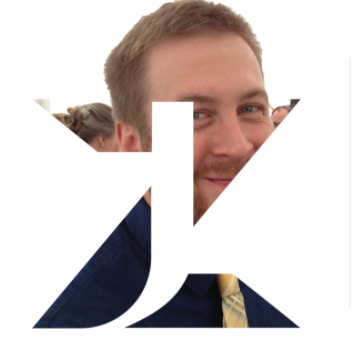
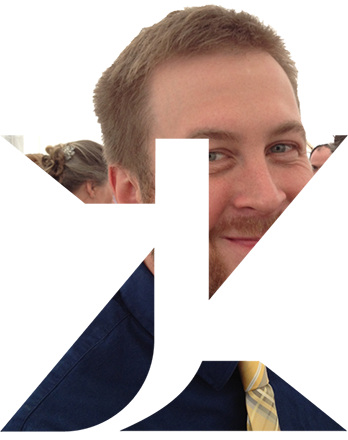
Updates to the about section.

diff --git a/index.html b/index.html
@@ -62,16 +62,16 @@
 	<!-- About Me -->
 	<div class="about">
 		<div class="container-fluid">	
-			<div class="container-fluid">
-				<div class="col-sm-6">
-					<img class="pull-right" src="img/face.png" />
-				</div>
-				<div class="col-sm-6">
-					<h2>About Me</h2>
-					<h3>JOHN ZEREN</h3>
-					<hr/>
-					<p>Lorem ipsum dolor sit amet, consectetur adipiscing elit. Proin cursus eu dolor ac tempor. Etiam pharetra mauris vel tristique vehicula. Fusce eleifend odio eget nisi dapibus consectetur. Proin eu convallis nunc, sit amet semper risus. Pellentesque at facilisis purus. Etiam et lorem placerat, consequat ligula in, euismod mauris. Ut in elit eu elit finibus finibus id eget ipsum. Donec a est diam. Fusce facilisis nisi id nunc convallis, sed convallis lorem congue. Nulla facilisi. Vestibulum neque quam, mattis ac ligula vel, consectetur consectetur metus. Morbi aliquam orci sit amet velit suscipit tincidunt. Etiam condimentum efficitur mi, et elementum augue placerat non. Lorem ipsum dolor sit amet, consectetur adipiscing elit.</p>
-				</div>
+			<div class="col-sm-6 about-image">
+					<img src="img/face.png" />
+			</div>
+			<div class="col-sm-6 about-text">
+				
+				<h2>About Me</h2>
+				<h3>JOHN ZEREN</h3>
+				<hr/>
+				<p>Lorem ipsum dolor sit amet, consectetur adipiscing elit. Proin cursus eu dolor ac tempor. Etiam pharetra mauris vel tristique vehicula. Fusce eleifend odio eget nisi dapibus consectetur. Proin eu convallis nunc, sit amet semper risus. Pellentesque at facilisis purus. Etiam et lorem placerat, consequat ligula in, euismod mauris. Ut in elit eu elit finibus finibus id eget ipsum. Donec a est diam. Fusce facilisis nisi id nunc convallis, sed convallis lorem congue. Nulla facilisi. Vestibulum neque quam, mattis ac ligula vel, consectetur consectetur metus. Morbi aliquam orci sit amet velit suscipit tincidunt. Etiam condimentum efficitur mi, et elementum augue placerat non. Lorem ipsum dolor sit amet, consectetur adipiscing elit.</p>
+				<div class="blue-cta">READ MORE</div>
 			</div>
 		</div>
 	</div>

diff --git a/style.css b/style.css
@@ -67,6 +67,19 @@ h3 {
   text-align: center; 
   font-size: large;
 }
+
+.blue-cta {
+  border-radius: 5px;
+  background: #181717;
+  padding: 13px 20px 0px 20px; 
+  color: white;
+  font-weight: bold;
+  width: 150px;
+  height: 50px; 
+  text-align: center; 
+  font-size: large;
+}
+
 /* END Global */
 
 /* Footer */
@@ -241,7 +254,17 @@ h3 {
 .about {
 	background-color: white;
 	color: black;
-	padding-bottom: 4em;
+}
+
+.about-text {
+	margin-top: 30px;
+	padding-left: 50px;
+	border-left: 1px solid #e9e9e9;
+}
+
+.about-image {
+	text-align: right;
+	padding-right: 10%
 }
 
 /* contact */
